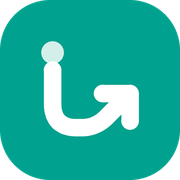
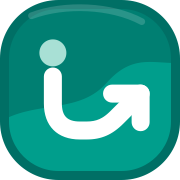
feat(web): refreshed brand mark and two-line wordmark with an inverse variant
- LogoMark redrawn on a 40px grid (two-tone tile, thicker stroke); icon.svg, favicon.ico,
  apple-icon.png and the public brand mark regenerated from it
- Logo gains `inverse` for dark bars and a DAEGU LOCAL PAY caption; AdminTopBar already passes
  `inverse` since a194b4f, so this also restores a type-clean HEAD

diff --git a/web/src/components/Logo.tsx b/web/src/components/Logo.tsx
@@ -3,32 +3,40 @@ import { cx } from "./ui";
 export function LogoMark({ className }: { className?: string }) {
   return (
     <svg
-      viewBox="0 0 36 36"
+      viewBox="0 0 40 40"
       fill="none"
       xmlns="http://www.w3.org/2000/svg"
       className={className}
       aria-hidden="true"
     >
-      <rect width="36" height="36" rx="10" fill="#00A18E" />
-      <circle cx="10.5" cy="10.5" r="2.25" fill="#D3EFE9" />
+      <rect x="1" y="1" width="38" height="38" rx="12" fill="#007F72" />
+      <path d="M1 26.5C8.8 22.5 17.8 25.1 23.7 18.4C29.2 12.2 33.6 14 39 14V27C39 33.6 33.6 39 27 39H13C6.4 39 1 33.6 1 27V26.5Z" fill="#009E8C" />
+      <rect x="1" y="1" width="38" height="38" rx="12" stroke="#006F65" strokeWidth="2" />
+      <circle cx="11.75" cy="11.75" r="3" fill="#A8E0D5" />
       <path
-        d="M10.5 14V20.75C10.5 23.9 12.1 25.5 15.25 25.5H16.25C18.45 25.5 19.9 24.8 21.5 23.2L26 18.7"
+        d="M11.75 17V23C11.75 26.9 13.85 29 17.75 29H19.25C22.05 29 23.95 28.1 26 26.05L31.25 20.8"
         stroke="white"
-        strokeWidth="3.5"
+        strokeWidth="4"
         strokeLinecap="round"
         strokeLinejoin="round"
       />
-      <path d="M20.5 18.7H26V24.2" stroke="white" strokeWidth="3.5" strokeLinecap="round" strokeLinejoin="round" />
+      <path d="M24.9 20.8H31.25V27.15" stroke="white" strokeWidth="4" strokeLinecap="round" strokeLinejoin="round" />
+      <path d="M7 3.5C14.2 0.8 24.6 1.1 31.5 4.8" stroke="white" strokeOpacity="0.16" strokeWidth="1.5" strokeLinecap="round" />
     </svg>
   );
 }
 
-export function Logo({ className }: { className?: string }) {
+export function Logo({ className, inverse = false }: { className?: string; inverse?: boolean }) {
   return (
     <span className={cx("inline-flex items-center gap-2.5", className)}>
-      <LogoMark className="h-8 w-8 shrink-0" />
-      <span className="whitespace-nowrap text-[17px] font-bold tracking-[-0.025em] text-gray-900">
-        <span className="text-brand-600">달구벌</span>페이
+      <LogoMark className="h-9 w-9 shrink-0 drop-shadow-[0_2px_4px_rgba(0,119,106,0.22)]" />
+      <span className="flex flex-col whitespace-nowrap">
+        <span className={cx("text-[19px] font-extrabold leading-[1.05] tracking-[-0.045em]", inverse ? "text-white" : "text-gray-900")}>
+          <span className={inverse ? "text-brand-300" : "text-brand-700"}>달구벌</span>페이
+        </span>
+        <span className={cx("mt-1 text-[7px] font-bold leading-none tracking-[0.2em]", inverse ? "text-gray-400" : "text-gray-500")}>
+          DAEGU LOCAL PAY
+        </span>
       </span>
     </span>
   );
